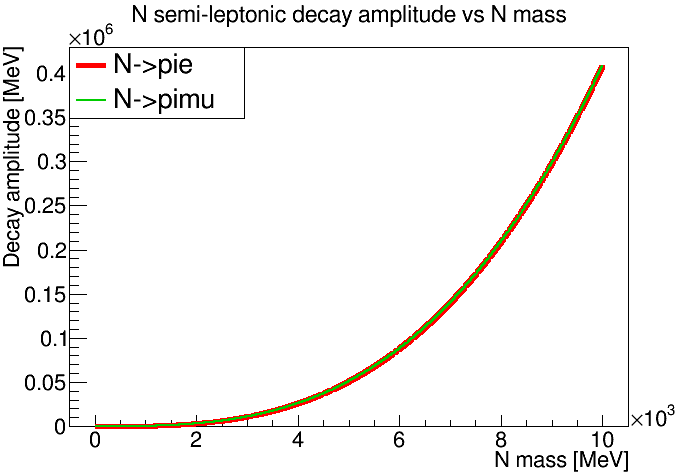
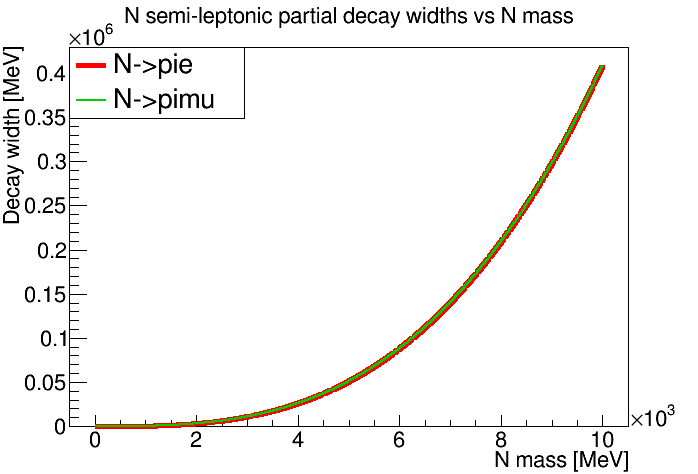
update!

Changed region(s): [[0.1805, 0.0, 0.8424, 0.0591], [0.0, 0.0886, 0.0301, 0.5612]]

diff --git a/MyScripts/Others/PhaseSpacePlots.C b/MyScripts/Others/PhaseSpacePlots.C
@@ -134,8 +134,7 @@ void PhaseSpacePlots() {
     xMN[MN] = MN;
     if (PSF >= 0.)
       yPSF[MN] = PSF;
-    if (BR > 0.)
-      yBR[MN] = BR;
+    yBR[MN] = BR;
     if (BRratio > 0.)
       yBRratio[MN] = BRratio;
   }
@@ -156,8 +155,7 @@ void PhaseSpacePlots() {
     xMN[MN] = MN;
     if (PSF >= 0.) 
       yPSF[MN] = PSF;
-    if (BR > 0.)
-      yBR[MN] = BR;
+    yBR[MN] = BR;
   }
 
   TGraph* gr2 = new TGraph(Mass, xMN, yPSF);
@@ -174,8 +172,7 @@ void PhaseSpacePlots() {
     xMN[MN] = MN;
     if (PSF >= 0.)
       yPSF[MN] = PSF;
-    if (BR > 0.)
-      yBR[MN] = BR;
+    yBR[MN] = BR;
     if (BRratio > 0.)
       yBRratio[MN] = BRratio;
   }
@@ -196,8 +193,7 @@ void PhaseSpacePlots() {
     xMN[MN] = MN;
     if (PSF >= 0.)
       yPSF[MN] = PSF;
-    if (BR > 0.)
-      yBR[MN] = BR;
+    yBR[MN] = BR;
   }
 
   TGraph* gr4 = new TGraph(Mass, xMN, yPSF);
@@ -233,7 +229,7 @@ void PhaseSpacePlots() {
   M->SetName("M");
   TMultiGraph* M2 = new TMultiGraph("M2", "BR vs N mass");
   M2->SetName("M2");
-  TMultiGraph* M3 = new TMultiGraph("M3", "N semi-leptonic decay amplitude vs N mass");
+  TMultiGraph* M3 = new TMultiGraph("M3", "N semi-leptonic partial decay widths vs N mass");
   M3->SetName("M3");
 
   TCanvas* c = new TCanvas("c");
@@ -273,7 +269,7 @@ void PhaseSpacePlots() {
   auto legend = new TLegend(0.1,0.65,0.4,0.9);
   legend->AddEntry(gr7,  "BR(D->nue)*Fe", "l");
   legend->AddEntry(gr8,  "BR(D->numu)*Fmu", "l");
-  legend->AddEntry(gr9,  "BR(DS->nu)*Fe", "l");
+  legend->AddEntry(gr9,  "BR(DS->nue)*Fe", "l");
   legend->AddEntry(gr10, "BR(DS->numu)*Fmu", "l");
 
   auto legend2 = new TLegend(0.1,0.65,0.45,0.9);
@@ -352,7 +348,7 @@ void PhaseSpacePlots() {
   M3->Add(gr6);
   M3->Draw("AC");
   M3->GetXaxis()->SetTitle("N mass [MeV]");
-  M3->GetYaxis()->SetTitle("Decay amplitude [MeV]");
+  M3->GetYaxis()->SetTitle("Decay width [MeV]");
   M3->GetYaxis()->SetTitleOffset(1.);
   M3->GetXaxis()->SetTitleOffset(0.9);
   M3->GetXaxis()->SetTitleSize(labelSize);
